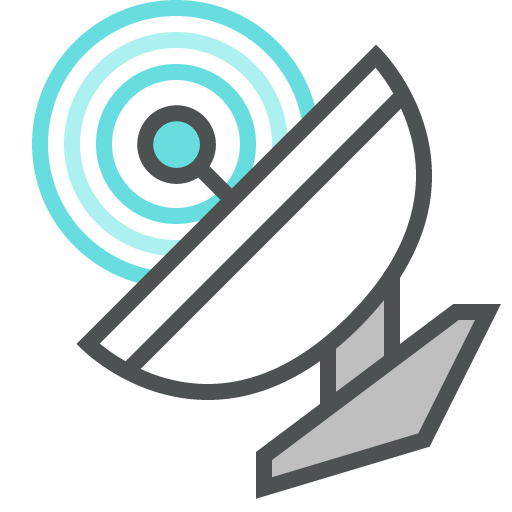
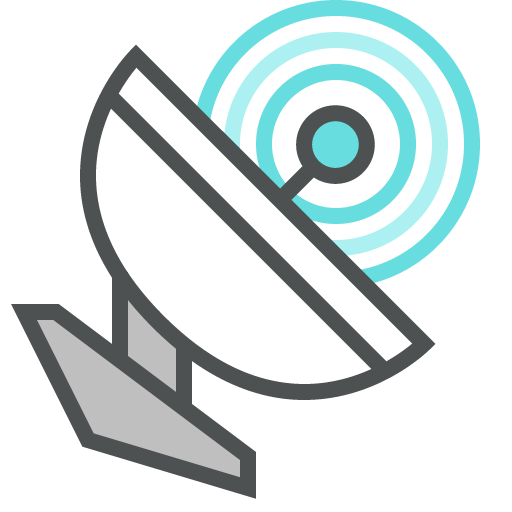
created mobile navbar

diff --git a/js/components/styled-components/nav-style.jsx b/js/components/styled-components/nav-style.jsx
@@ -8,42 +8,73 @@ import {hover} from './keyframes.js';
 
 
 export const Header = styled.header `
+    position: fixed;
     display: flex;
     flex-direction: column;
-    justify-content: space-between;
     align-items: center;
     background-color: white;
-    opacity: 0.9;
-    
     z-index: 10;
-    
+    height: 100%;
     ${media.tablet `
+        flex-direction: row;
+        align-items: flex-end;
+        justify-content: space-between;
         position: fixed;
         margin-bottom: 5px;
+        max-width: initial;
         width: 100%;
-        flex-direction: row;
+        height: initial;
+        opacity: .9;
     `}
 `;
 
 export const Col = styled.div `
     display: flex;
-    align-items: flex-end;
+    flex-direction: column;
+    align-items: center;
+    ${media.tablet `
+        flex-direction: row;
+        align-items: flex-end;
+        height: 50px;
+    `}
 `;
 
 export const StyledLink = styled(Link) `
+    height: 70px;
+    width: 70px;
     text-decoration: none;
     color: black;
+    display: flex;
+    flex-direction: column;
+    align-items: center;
+    justify-content: center;
+    border: 3px double ${props => props.theme.colors.main};
+    border-radius: 20%;
+    margin: 10px 5px;
+    ${media.tablet `
+        height: unset;
+        width: unset;
+        border: none;
+        flex-direction: initial;
+        margin: 5px;
+    `}
+`;
+
+export const StyledLogoLink = StyledLink.extend `
+    border: none;
 `;
 
 export const H2 = styled.h2 `
     margin-left: 10px;
     display: none;
+    margin: 5px;
     ${media.tablet `display:block;`}
 `;
 
 export const Span = styled.span `
-    font-size: 1.5rem;
+    font-size: 1rem;
     padding: 3px;
+    ${media.tablet `font-size: 1.5rem;`}
 `;
 
 export const SpanNew = Span.extend `
@@ -51,21 +82,34 @@ export const SpanNew = Span.extend `
     padding-left: 0;
 `;
 
+export const SpanSeparator = Span.extend `
+    display: none;
+    ${media.tablet `display: block;`}
+
+`;
+
 export const Image = styled.img `
-    width: 42px;
-    height: 42px;
-    padding-top: 5px;
-    padding-left: 5px;
+    width: 32px;
+    height: 32px;
+    ${media.tablet `
+        width: 42px;
+        height: 42px;
+    `}
 `;
 
 export const Logo = Image.extend `
-    transform: rotateY(180deg);
+    transform: rotate(270deg);
 `;
 
 export const UFO = Image.extend `
-    opacity: 0;
-    animation: ${hover} 800ms infinite alternate ease-in-out;
-    animation-delay: 5s;
+    display: none;
+    ${media.tablet `
+        display:block;
+        opacity: 0;
+        animation: ${hover} 800ms infinite alternate ease-in-out;
+        animation-delay: 5s;
+    `}
+    
 `;
 
 export const Menu = styled.div `

diff --git a/js/components/nav.jsx b/js/components/nav.jsx
@@ -6,7 +6,7 @@ import Typer from './typer.jsx';
 
 // import styled components
 
-import {Header, Col, Span, Image, StyledLink, SpanNew, Logo, UFO} from './styled-components/nav-style.jsx';
+import {Header, Col, Span, Image, StyledLink, StyledLogoLink, SpanNew, SpanSeparator, Logo, UFO} from './styled-components/nav-style.jsx';
 
 
 
@@ -17,29 +17,29 @@ const Nav = () => {
         <Header>
 
             <Col>
-                <StyledLink className='link-btn' to="/">
-                    <Logo src='../icons/satellite_dish.png' className='logo'/>
+                <StyledLogoLink to="/">
+                    <Logo src='../icons/satellite_dish.png'/>
                     <Span>explorea</Span>
-                </StyledLink>
-                <Span>|</Span>
+                </StyledLogoLink>
+                <SpanSeparator>|</SpanSeparator>
                 <Typer text="Cause we're not alone anymore..."/>
-                <UFO className='ufo' src='../icons/ufo.png'/>
+                <UFO src='../icons/ufo.png'/>
             </Col>
 
-            <div className="header-col menu">
-                <StyledLink className='link-btn' to="/newEvent">
+            <Col>
+                <StyledLink to="/newEvent">
                     <Image src='../icons/space_shuttle2.png'/>
-                    <SpanNew className='add-new-btn'>new</SpanNew>
+                    <SpanNew>new</SpanNew>
                 </StyledLink>
-                <Span>|</Span>
-                <StyledLink className='link-btn' to="/">
-                    <Image className='explorer' src='../icons/explorer.png'/>
+                <SpanSeparator>|</SpanSeparator>
+                <StyledLink to="/">
+                    <Image src='../icons/explorer.png'/>
                     <Span>browse</Span>
                 </StyledLink>
-                <StyledLink className='link-btn' to="/about">
+                <StyledLink to="/about">
                     <Span>about</Span>
                 </StyledLink>
-            </div>
+            </Col>
 
         </Header>
     )

diff --git a/js/components/typer.jsx b/js/components/typer.jsx
@@ -1,5 +1,9 @@
 import React from 'react';
 
+// import styled components
+
+import {H2} from './styled-components/nav-style.jsx';
+
 export default class Typer extends React.Component {
 
     state = {
@@ -8,7 +12,7 @@ export default class Typer extends React.Component {
     }
 
     render() {
-        return <h2>{this.state.text}</h2>
+        return <H2>{this.state.text}</H2>
     }
 
     componentDidMount() {

diff --git a/scss/main.scss b/scss/main.scss
@@ -21,11 +21,11 @@ body {
     font-family: 'Titillium Web', sans-serif;
 }
 
-@import 'partials/nav';
+// @import 'partials/nav';
 @import 'partials/planet';
 @import 'partials/events';
 @import 'partials/new-event';
 @import 'partials/category-btn';
 @import 'partials/daypicker';
-@import 'partials/about';
+// @import 'partials/about';
 @import 'partials/footer';
